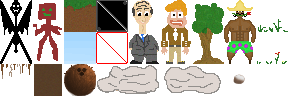
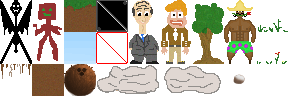
Sheet: jord utan gräs GamePanel: Moln spawnar inte framför bana level1: Lagt till jord Level: Jord

Changed region(s): [[0.0938, 0.6562, 0.25, 1.0]]

diff --git a/Tempo/src/tempo/sprites/Level.java b/Tempo/src/tempo/sprites/Level.java
@@ -42,8 +42,14 @@ public class Level{
 
                     }else if(tempSubStr.equals("l")){
                         addBlock(true,collumn,row,2,0,1,1);
+                    }else if (tempSubStr.equals("d")) {
+                        addBlock(true,collumn,row,1,2,1,1);
                     }else if(tempSubStr.equals("i")){
-                        addBlock(false,collumn,row,8,0,1,1);
+                        if (Math.random() > 0.5) {
+                            addBlock(false,collumn,row,8,0,1,1);
+                        } else {
+                            addBlock(false,collumn,row,8,1,1,1);
+                        }
                     }else if(tempSubStr.equals("t")){
                         addBlock(false,collumn,row,6,0,1,2);
                     }

diff --git a/Tempo/src/tempo/GamePanel.java b/Tempo/src/tempo/GamePanel.java
@@ -57,8 +57,8 @@ public class GamePanel extends JPanel{
         super.paintComponent(g);
         ArrayList<Sprites> sprites = new ArrayList<Sprites>();
         sprites.addAll(sky);
-        sprites.addAll(level.blocks);
         sprites.addAll(clouds);
+        sprites.addAll(level.blocks);
         sprites.add(player);
         sprites.add(enemy);
         sprites.addAll(bullets);
